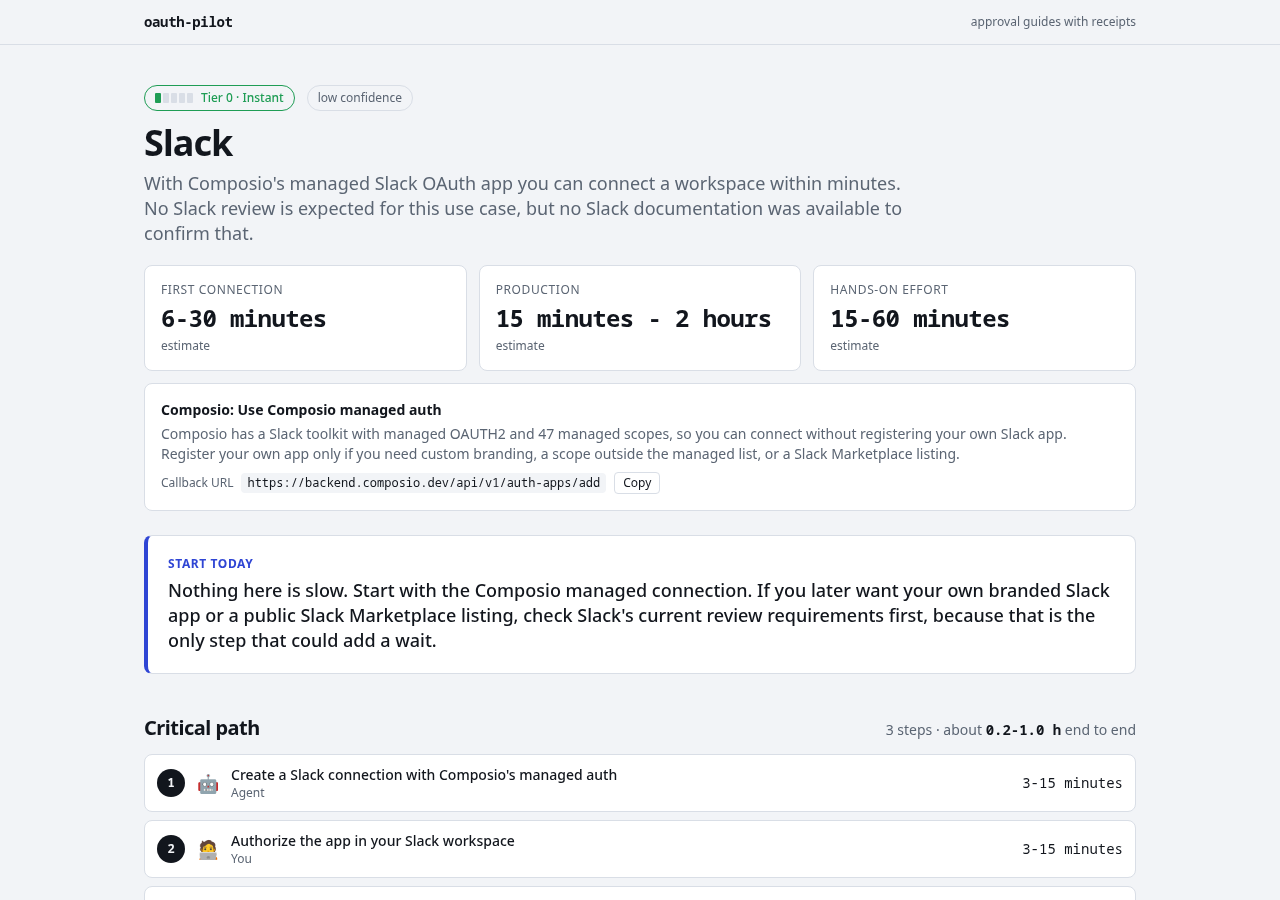
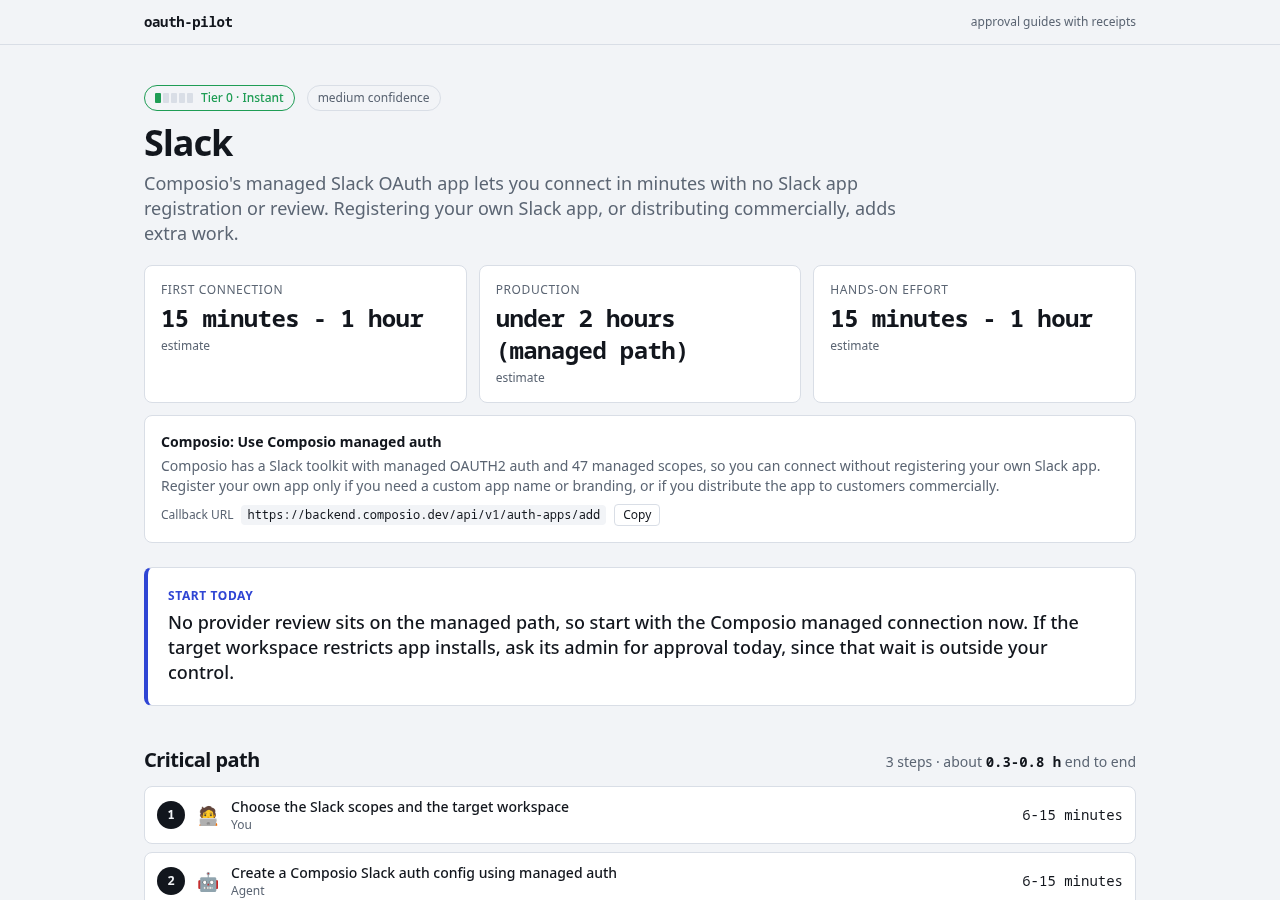
E2E pass 2: all criteria green after fixes; README links results
Slack web 85 s, plugin skill Trello 104 s (long-poll), MCP Calendly 90 s, test:all green.

Claude-Session: https://claude.ai/code/session_01Bj5MiMduoRhhDYrFa9wdp9

diff --git a/docs/E2E_RESULTS.md b/docs/E2E_RESULTS.md
@@ -1,5 +1,83 @@
 # OAuth Pilot: end-to-end test results
 
+## Pass 2 (after fixes, 2026-10-28, commit 14eaf08)
+
+Same method as pass 1 (pass 1 below is kept unchanged as history). Fixes under test: D-AGENT-5 (empty research degrades and retries, production clock clamped to the critical path, `oauth_guide_status` long-poll via `wait_seconds`) plus the clocks assertion in the web e2e. Live runs used scratch `DATA_DIR`s outside the repo; keys came from `.env` and are not recorded. Working tree after the pass: only `docs/screenshots/live-run.png` and this file changed.
+
+### Pass 2 summary
+
+| # | Success criterion | Result | Evidence (pass 2) |
+|---|---|---|---|
+| 1 | Site shows 5 guides with tier badges and both clocks | ✅ | Playwright 9/9, including the new clocks assertion on library cards and guide page |
+| 2 | Gmail: CASA on the critical path, ledger with sources, uncertain items marked | ✅ | `guide.spec.ts` passes (unchanged from pass 1) |
+| 3 | Unfamiliar app, graph lights up, guide in < ~3 min | ✅ | Slack web run 85 s, no degraded node, 7 research notes, 11 claims (tested 3, sourced 5, inferred 3), verifier fetched 7/7 cited pages. Pass 1 was 71 s with 0 notes and 0 sourced claims. |
+| 4a | `/oauth-pilot:oauth-guide <app>` returns a verdict with MCP tools only | ✅ | Trello (uncached app): finished, 104 s, $0.171, 7 turns, 2 `oauth_guide_status` calls, verdict "Trello: Tier 0, Instant". See F for why Notion was not the one exercised. |
+| 4b | `/oauth-pilot:oauth-setup linear` | unchanged | Not re-run; see pass 1 section H |
+| 5 | MCP start -> status reports a summary | ✅ | Calendly live: 3 status calls with `wait_seconds:30`, Done at 90 s, "Done. Calendly: tier 0 (Instant)..." (pass 1: polling every 5 s, 110 s) |
+| 6 | README | n/a | Not exercised |
+| Offline | `pnpm test:all` | ✅ | exit 0, 25 s: core 29, agent 63, mcp none (passWithNoTests), 5/5 guides valid, 9/9 Playwright, 2/2 MCP e2e |
+
+Nothing failed in pass 2. Caveats are listed in the bug table and in F.
+
+### Bugs: status
+
+| # (pass 1) | Bug | Status | Evidence |
+|---|---|---|---|
+| 1 | Web run finishes "ok" with 0 research notes, silent | Mitigated | Slack rerun got 7 notes and 5 sourced claims. The root cause was never reproduced (D-AGENT-5 says 0 notes failed to reproduce in 4 live tries), so the degrade/retry path was not hit live in pass 2; it is covered by unit tests only (agent suite 58 -> 63 tests). |
+| 2 | `timeToProduction.maxHours` below the critical path (Pipedrive) | Fixed (unit-tested only) | No pass 2 run logged "raised timeToProduction" (Slack stream checked; Calendly and Trello guides have consistent clocks). The clamp is exercised by unit tests only; Pipedrive was not re-run. |
+| 3 | Skill cannot wait between polls in a restricted session | Fixed | Trello via `claude -p` with only oauth-pilot MCP tools (no Bash): finished with a verdict using 2 status calls, versus 9 rapid calls and a give-up in pass 1. Calendly via MCP driver: 3 calls of `wait_seconds:30`. |
+| 4 | First MCP status uninformative during probe/research | Still open (minor) | Calendly status at 30 s and 60 s returned "Running. Call oauth_guide_status again with wait_seconds. Last events:"; not examined further. |
+| 5 | MCP start result hardcodes `http://localhost:3000/guides/<slug>` | Not a bug (closed) | Orchestrator check: no localhost default exists in code (`webUrl()` returns undefined unless `OAUTH_PILOT_URL` is set). The test shell loaded `.env`, which sets `OAUTH_PILOT_URL=http://localhost:3000`. Asserted in e2e/mcp.e2e.mjs. |
+| 6 | No Playwright assertion for the two clocks | Fixed | Commit 813047a; web e2e now 9 tests (was 8). |
+| 7 | `packages/mcp` has no unit tests | Still open | vitest reports "No test files found"; covered only by `e2e:mcp`. |
+
+### Pass 2 re-run details
+
+**Offline (`pnpm test:all`, exit 0, 25.3 s):** typecheck of core, agent, mcp, web all Done. Unit: `packages/core` 2 files / 29 tests; `packages/agent` 11 files / 63 tests; `packages/mcp` no test files. `validate:guides` 5 guides, 0 failed. Web e2e 9 passed (20.2 s, includes `next build`). MCP e2e: `ok: repo guides dir (623 ms)`, `ok: empty GUIDES_DIR (embedded) (141 ms)`. The MCP bundle rebuild left no diff.
+
+**D. Live web run, Slack:** `pnpm --filter web build`, `.env` exported, `next start -p 3231`, `POST /api/runs {"app":"Slack"}` gave `slack-20aca948`; SSE streamed to `done`.
+
+| Node | Start (s) | Duration (s) | Notes |
+|---|---|---|---|
+| intake | 0.0 | 2.6 | target Slack |
+| composio_lookup | 2.6 | 0.4 | "slack: OAUTH2, 0 required scopes" |
+| probe | 2.6 | 0.5 | 6 probes, 2 ok |
+| docs_research | 2.6 | 25.6 | **7 notes** (pass 1: 0 notes, 39 s) |
+| draft | 28.3 | 44.7 | drafted from 7 notes, 3 premade claims |
+| verify | 73.0 | 12.1 | fetched 7/7 cited pages, 2/6 web_fetch fallbacks; supported 5, partial 0, unsupported 2, contradicted 0, not checked 1 |
+| finalize | 85.1 | 0.0 | guide valid |
+
+- Node order: intake, then composio_lookup + probe + docs_research in parallel, draft, verify, finalize, done. No degraded nodes, no research-retry log lines visible.
+- **Total 85.1 s** (< 3 min).
+- Guide: tier 0 (Instant), confidence medium, 11 claims by evidence: tested 3, sourced 5, inferred 3; 6 open questions. `GET /guides/slack?generated=1` returned 200 with `data-testid="tier-badge" data-tier="0"`.
+- Tier 0 for Slack is still debatable (Marketplace review exists); the guide now carries sourced claims and the verifier flagged 2 claims unsupported, so it is not silently confident.
+- Screenshot refreshed: `docs/screenshots/live-run.png` (1280x900, Playwright). Server stopped; nothing listening on 3231.
+
+**F. Plugin skill, MCP tools only** (`claude -p --plugin-dir plugin/oauth-pilot --max-budget-usd 2`, allowed only `mcp__plugin_oauth-pilot_oauth-pilot__*`, Bash/Read/Write and all other tools disallowed):
+- Run with "notion": finished in 20 s, $0.187, 4 turns, but with **no generation run**: the plugin's own data dir (`~/.claude/plugins/data/oauth-pilot-inline/guides/notion.json`, left by pass 1) already held a Notion guide, so the skill loaded it and never polled. That run does not test the polling fix.
+- One retry with an app that was not cached, "trello" (a deviation from the requested app, chosen so polling is exercised): **finished with a verdict.** 104 s, $0.171, 7 turns, 1 `oauth_guide_start`, **2 `oauth_guide_status` calls**, 1 `oauth_guide_get`. Verdict line: "## Trello: Tier 0 · Instant" (time to first connection 5-30 min, production about an hour or less, confidence medium), with 3 critical-path actions. It could not save `./oauth-guides/trello.md` because no write tool was allowed, and said so.
+- The Notion cache was left in place (outside the repo).
+
+**E. Live MCP, Calendly** (MCP SDK driver, scratch `DATA_DIR`): `oauth_guide_start {app:"Calendly"}` gave `calendly-b2b52674`; `oauth_guide_status {wait_seconds:30}` returned "Running" at 30.0 s and 60.0 s and "Done. Calendly: tier 0 (Instant)..." at 90.0 s: **3 status calls, 90 s** (pass 1: about 22 calls every 5 s, 110 s). Time to first connection 5-30 min, production under 1 hour, confidence medium.
+
+**Bug 2 spot-check:** no run in pass 2 logged "raised timeToProduction" (Slack SSE has no such line; the clamp's log is only emitted when it fires). The clamp is unit-tested only.
+
+### Pass 2 numbers
+
+| Run | Surface | Time | Cost |
+|---|---|---|---|
+| `pnpm test:all` | offline | 25 s | none |
+| Slack | web | 85 s | proxy-billed, not reported |
+| Notion (cached, no polling) | plugin skill | 20 s | $0.187 |
+| Trello | plugin skill | 104 s | $0.171 |
+| Calendly | MCP | 90 s | proxy-billed, not reported |
+
+Claude Code cost counted this pass: $0.358.
+
+---
+
+# Pass 1 (original run, history)
+
 - **Date:** 2026-10-28
 - **Commit:** `2795845` (working tree clean apart from `docs/screenshots/live-run.png` and this file)
 - **Environment:** Linux, Node v26.11.1, pnpm 12.15.0, Claude Code CLI (headless). Model `claude-sonnet-5-5` through an Anthropic-compatible proxy (LiteLLM). Composio key from `.env`. Live outputs went to a scratch `DATA_DIR` outside the repo.

diff --git a/LOG.md b/LOG.md
@@ -134,3 +134,8 @@
 ## 2026-10-28T13:06+05:30 E2E bug fixes landed
 - Fixed bugs 1–5 from E2E_RESULTS (D-AGENT-5): research salvage + retry + degrade, a low-confidence cap on empty research, the timeToProduction clamp with a fresh label, MCP status long-poll, clock assertions. The Slack 0-notes root cause was not reproduced (4 live tries); a live Slack CLI run after the fix gave 11 notes, 94 s, 0 unsupported.
 - test:all green: core 29, agent 63, 5 guides, web 9, mcp 2. MCP bundle rebuilt.
+
+## 2026-10-28T13:32+05:30 Live e2e pass 2 (docs/E2E_RESULTS.md)
+- test:all ✅ 25 s (core 29, agent 63, 5 guides, web 9, mcp 2). Slack web run ✅ 85 s, 7 notes, no degraded node (pass 1: 0 notes). /oauth-pilot:oauth-guide Trello ✅ 104 s with 2 long-poll status calls, no Bash (pass 1 gave up). MCP Calendly ✅ 90 s with 3 calls. Notion was answered from the plugin's cached guide, so Trello stood in.
+- Bugs: 1 mitigated (root cause unreproduced), 2 fixed (unit-tested), 3 fixed, 5 closed as config (.env OAUTH_PILOT_URL), 6 fixed. Open minor: bland "Running..." status text, no unit tests in packages/mcp.
+- Final pre-publish scan: 0 secrets or proxy host in the tree, staged diff or history.

diff --git a/README.md b/README.md
@@ -95,6 +95,8 @@ The pattern is draft, then verify with fresh context: a drafting call with all t
 
 ## Verification summary
 
+End-to-end results (offline suites plus live web, CLI, MCP and Claude Code plugin runs, with timings and bugs found and fixed): [docs/E2E_RESULTS.md](docs/E2E_RESULTS.md).
+
 The agent generated the 5 library guides live. Fresh-context auditors then checked every claim against hand-built evidence packs (`research/apps/*.md`) and re-fetched cited pages.
 
 - Claims in the library: **after the audit** ([SUMMARY](docs/verification/SUMMARY.md)) 118 = 11 tested, 86 sourced, 21 inferred (before: 113 = 11 / 66 / 36). **Today** (recounted from `guides/*.json`) 123 = 16 tested, 86 sourced, 21 inferred, because T22 added 5 tested claims to the Linear guide.
